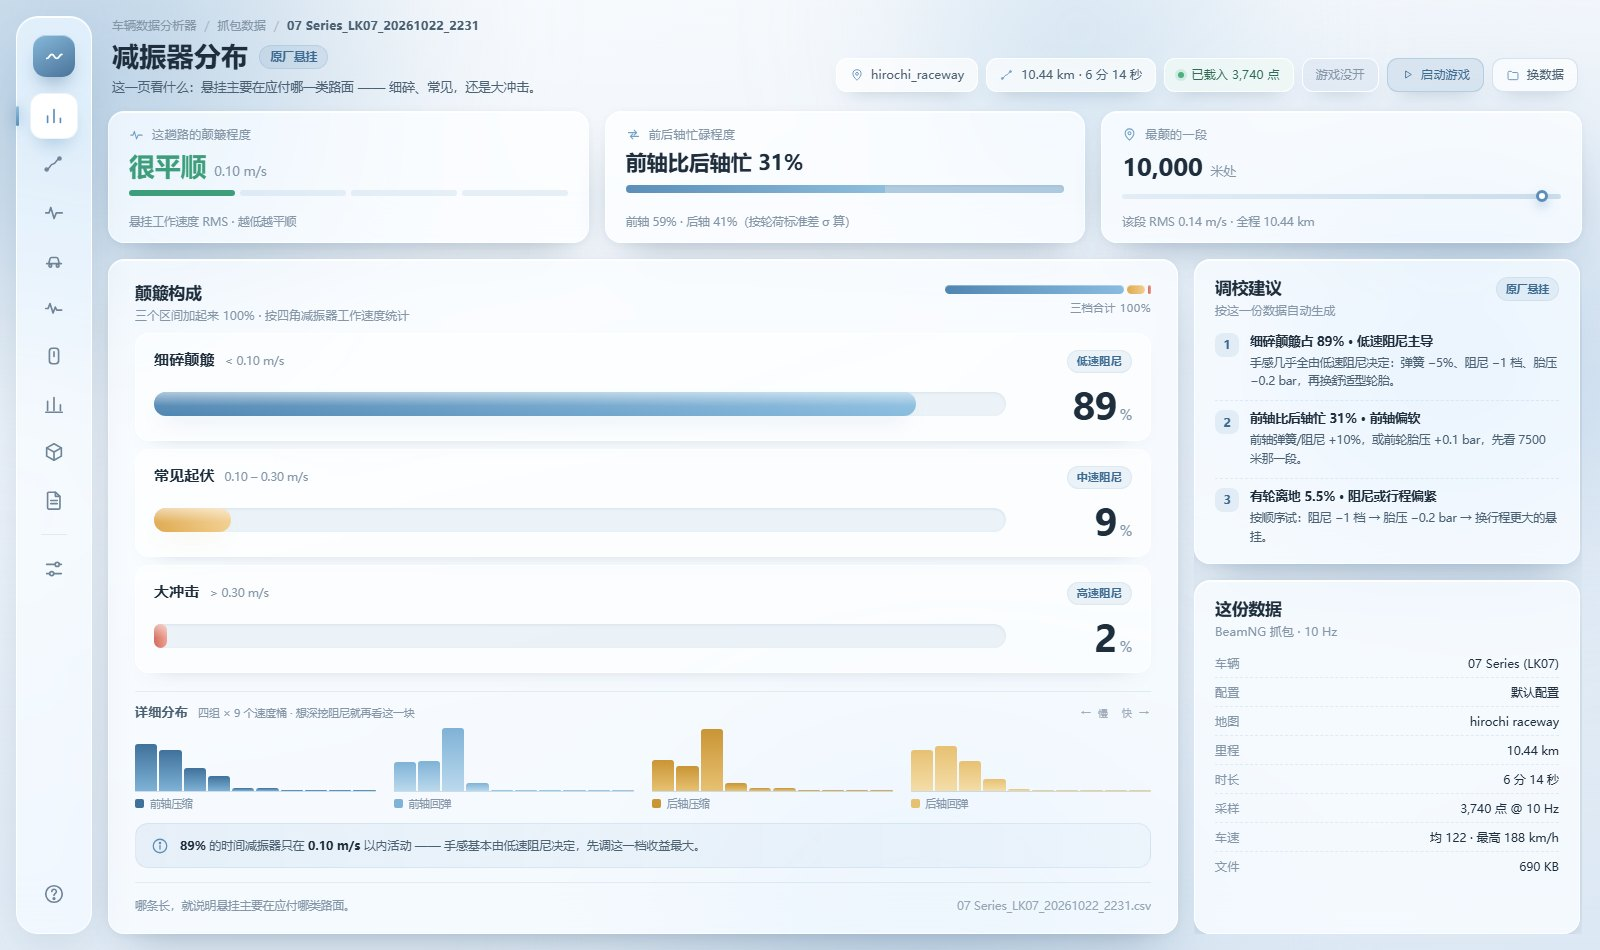
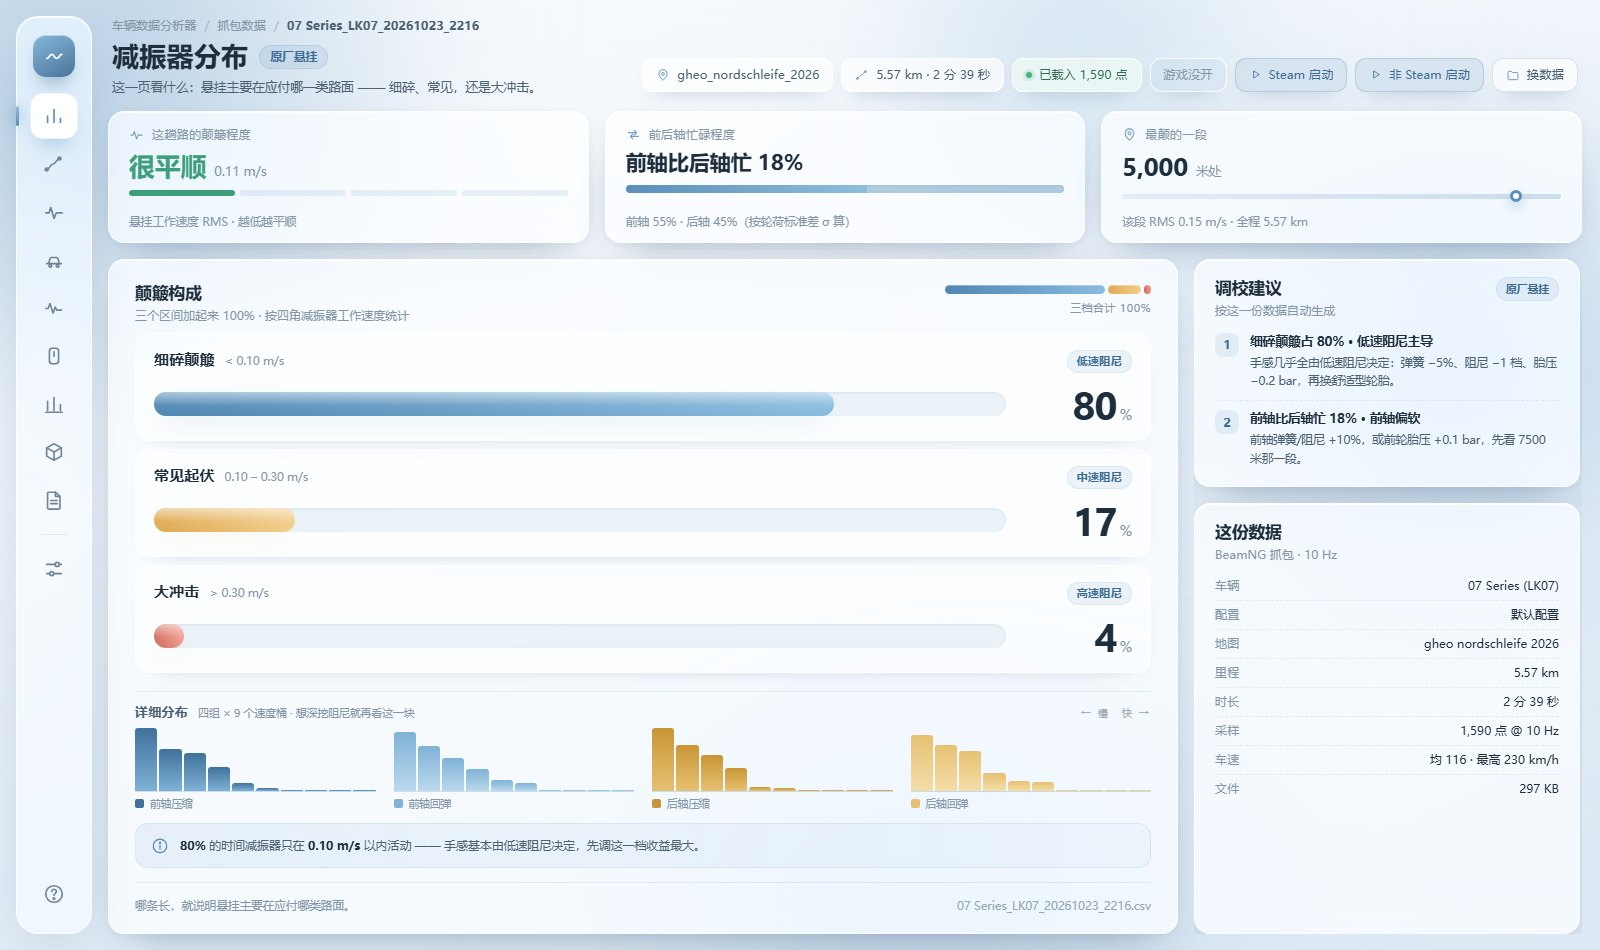
feat: 顶部拆成两个启动按钮（Steam / 非 Steam），安装程序跳过源码仓库

diff --git a/web_ui.py b/web_ui.py
@@ -986,10 +986,11 @@ __PAGE_JS__
   setTimeout(pollLive, 1200);
   setInterval(pollLive, 3000);
 
-  function launchGame() {
+  function launchGame(mode) {
     if (!bridgeReady()) { toast('静态预览不能启动游戏，请用真窗口'); return; }
-    toast('正在启动游戏…');
-    window.pywebview.api.launch_game().then(function (res) {
+    mode = mode || 'steam';
+    toast(mode === 'direct' ? '正在直接启动游戏（非 Steam）…' : '正在通过 Steam 启动游戏…');
+    window.pywebview.api.launch_game(mode).then(function (res) {
       if (!res || !res.ok) toast('启动失败：' + ((res && res.message) || '未知错误'));
       else toast(res.message);
     }).catch(function (err) { toast('启动失败：' + err); });
@@ -1032,7 +1033,8 @@ __PAGE_JS__
   }
 
   document.addEventListener('click', function (e) {
-    if (e.target.closest('#launch-game')) { launchGame(); return; }
+    if (e.target.closest('#launch-game-direct')) { launchGame('direct'); return; }
+    if (e.target.closest('#launch-game')) { launchGame('steam'); return; }
     if (e.target.closest('#open-data')) { open(); return; }
     if (e.target.closest('#data-close') || e.target === modal) { close(); return; }
     var openBtn = e.target.closest('.data-open');
@@ -1757,10 +1759,10 @@ class Api:
     def list_csvs(self):
         return list_csvs()
 
-    def launch_game(self):
-        """通过 Steam 启动游戏（老版同款：只走 Steam 协议，不直接拉 exe）。"""
+    def launch_game(self, mode="steam"):
+        """启动游戏：mode=steam 走 Steam 协议；mode=direct 直接用设置里的非 Steam 路径。"""
         try:
-            ok, msg = T.launch_game()
+            ok, msg = T.launch_game(mode)
             return {"ok": ok, "message": msg}
         except Exception as e:          # noqa: BLE001
             return {"ok": False, "message": "启动失败：%s" % e}

diff --git a/beamng_data.py b/beamng_data.py
@@ -97,13 +97,33 @@ LAUNCHER = _CFG.get("launcher") or _derive_launcher(GAME_EXE)
 STEAM_URL = "steam://rungameid/284160"
 
 
-def launch_game():
+def launch_game(mode="auto"):
     """启动 BeamNG.drive，返回 (ok, 说明)。
 
-    优先用「非 Steam 启动路径」（游戏根目录的 BeamNG.drive.exe）；
-    没配置就退回 Steam 协议（steam://rungameid/284160）。
+    mode:
+      "steam"  → 走 Steam 协议（steam://rungameid/284160）
+      "direct" → 用「非 Steam 启动路径」（游戏根目录 BeamNG.drive.exe）
+      "auto"   → 有非 Steam 路径就用它，没有就 Steam
     注意：直连 Bin64 里的 BeamNG.drive.x64.exe 会新建空档案，不要那么干。
     """
+    mode = (mode or "auto").strip().lower()
+    if mode == "steam":
+        try:
+            os.startfile(STEAM_URL)          # noqa: S606  Windows 专用
+            return True, "正在通过 Steam 启动游戏…"
+        except OSError as e:
+            return False, "启动失败：%s" % e
+    if mode == "direct":
+        if not LAUNCHER:
+            return False, "没配置非 Steam 启动路径（设置页里填游戏根目录的 BeamNG.drive.exe）"
+        if not os.path.isfile(LAUNCHER):
+            return False, "非 Steam 启动路径不存在：%s" % LAUNCHER
+        try:
+            os.startfile(LAUNCHER)          # noqa: S606  Windows 专用
+            return True, "正在直接启动游戏（非 Steam 模式）…"
+        except OSError as e:
+            return False, "启动失败：%s" % e
+    # auto
     if LAUNCHER and os.path.isfile(LAUNCHER):
         try:
             os.startfile(LAUNCHER)          # noqa: S606  Windows 专用

diff --git a/webui_parts/common.py b/webui_parts/common.py
@@ -87,8 +87,11 @@ def head_html(file_stem, file_full, title, badge, sub, chips=""):
     live_chip = ('<span class="chip live-chip live-idle" id="live-status" '
                  'title="游戏 / 抓包实时状态（每 3 秒刷新）">游戏没开</span>')
     play_btn = ('<button class="chip chip-btn play-btn" id="launch-game" '
-                'title="通过 Steam 启动 BeamNG.drive">'
-                '%s<span>启动游戏</span></button>' % IC["play"])
+                'title="通过 Steam 启动 BeamNG.drive（steam://rungameid/284160）">'
+                '%s<span>Steam 启动</span></button>'
+                '<button class="chip chip-btn play-btn direct-btn" id="launch-game-direct" '
+                'title="直接启动设置里的非 Steam 路径（游戏根目录 BeamNG.drive.exe）">'
+                '%s<span>非 Steam 启动</span></button>' % (IC["play"], IC["play"]))
     data_btn = ('<button class="chip chip-btn" id="open-data" title="切换数据文件（CSV）">'
                 '%s<span>换数据</span></button>' % IC["folder"])
     return (

diff --git a/tools/installer_gui.py b/tools/installer_gui.py
@@ -185,6 +185,8 @@ def _scan(root, depth, out, seen):
         p, name = e.path, e.name.lower()
         if name in SKIP_NAMES or p.lower() in SKIP_PATHS:
             continue
+        if os.path.isdir(os.path.join(p, ".git")):
+            continue                      # 源码仓库不是安装目标，别让用户误覆盖
         if dir_looks_like_app(p):
             ap = os.path.abspath(p)
             if ap not in seen:
